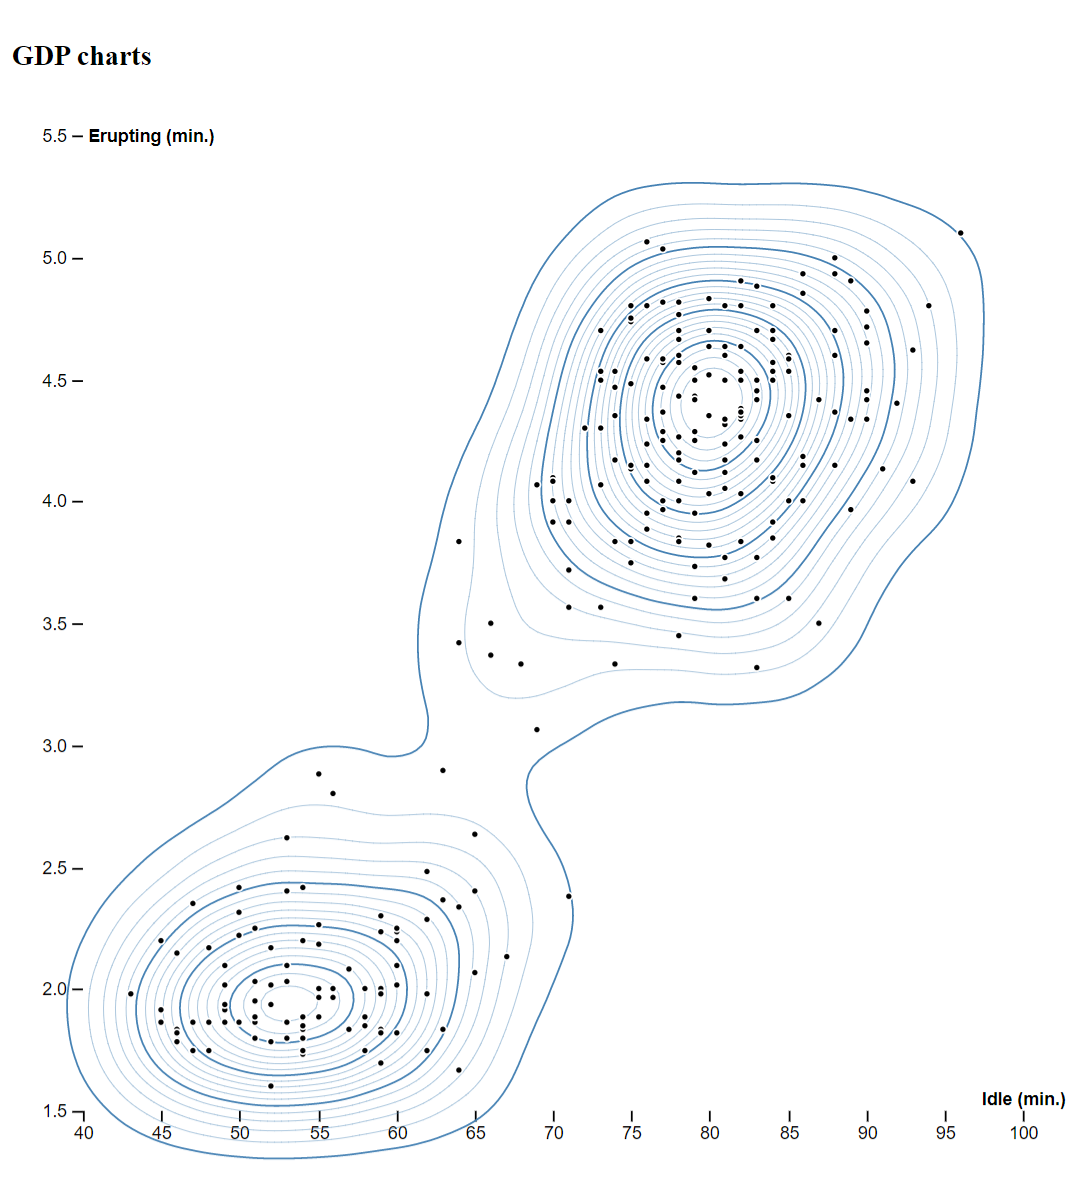
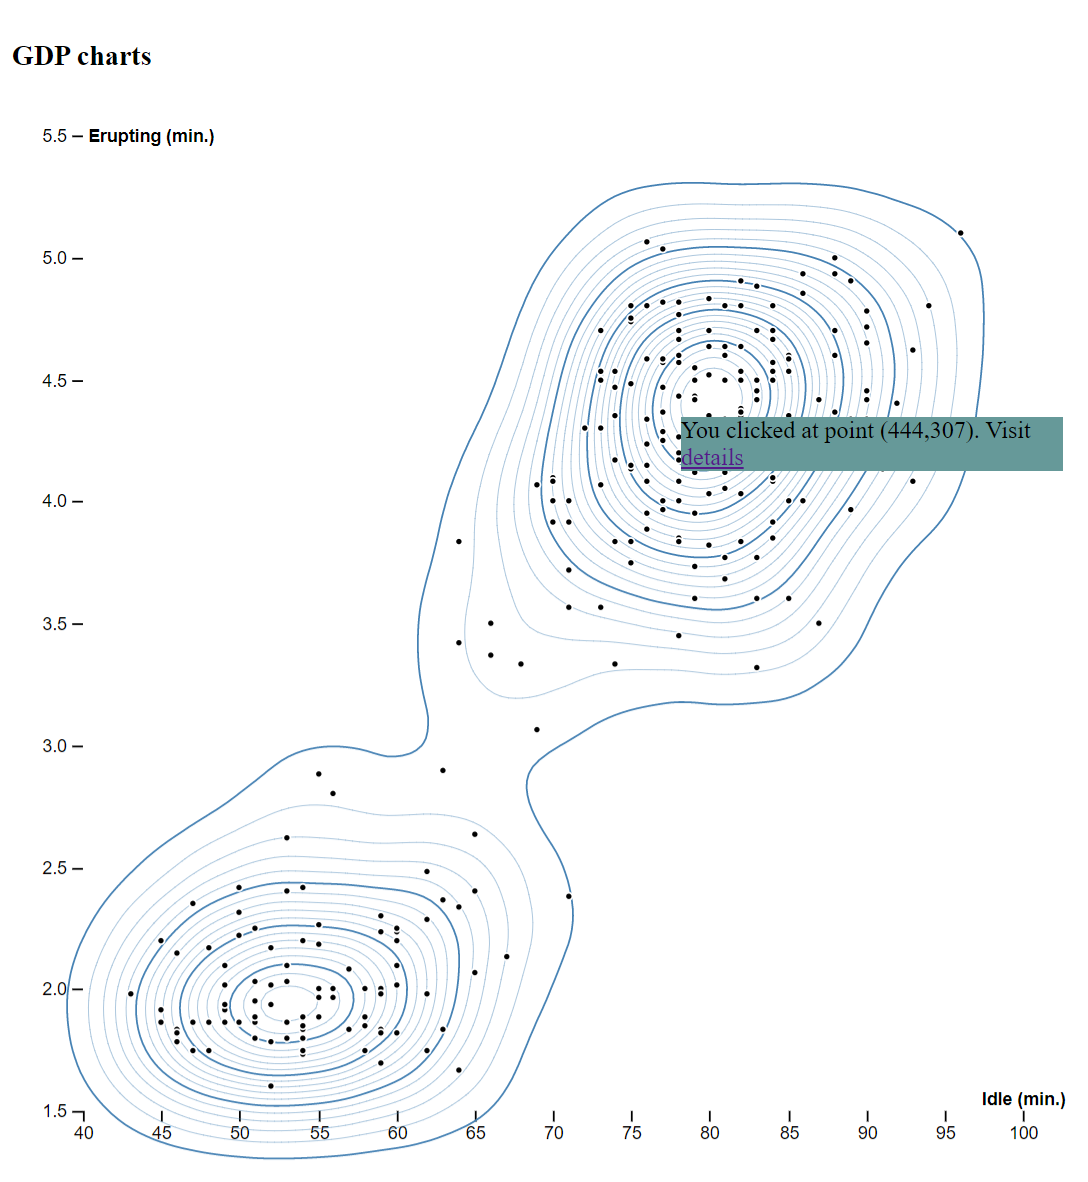
added tooltips for interactions

Changed region(s): [[0.625, 0.335, 1.0, 0.3959]]

diff --git a/src/D3.vue b/src/D3.vue
@@ -31,8 +31,8 @@ export default {
     }
   },
   mounted() {
-    this.generateChart();
-    // this.generateChart2();
+    // this.generateChart();
+    this.generateChart2();
   },
   methods: {
     async generateChart() {
@@ -135,6 +135,15 @@ export default {
           .attr("stroke-width", (d, i) => i % 5 ? 0.25 : 1)
           .attr("d", d3.geoPath());
 
+      let tooltip = d3.select("body")
+          .append("div")
+          .style("class", "align-center")
+          .style("position", "absolute")
+          .style("z-index", "10")
+          .style("visibility", "hidden")
+          .style("background", "#699")
+          .text("");
+
       svg.append("g")
           .attr("stroke", "white")
           .selectAll("circle")
@@ -142,7 +151,13 @@ export default {
           .enter().append("circle")
           .attr("cx", d => x(d.x))
           .attr("cy", d => y(d.y))
-          .attr("r", 2);
+          .attr("r", 2)
+      .on("mouseover", function (d) {
+        tooltip.html("You clicked at point (" + d.x + "," + d.y + "). Visit <a href='/'>details</a>")
+            .style("top", (d.y-10)+"px").style("left",(d.x+10)+"px");
+        return tooltip.style('visibility', 'visible');
+      })
+      ;
     }
   }
 }
